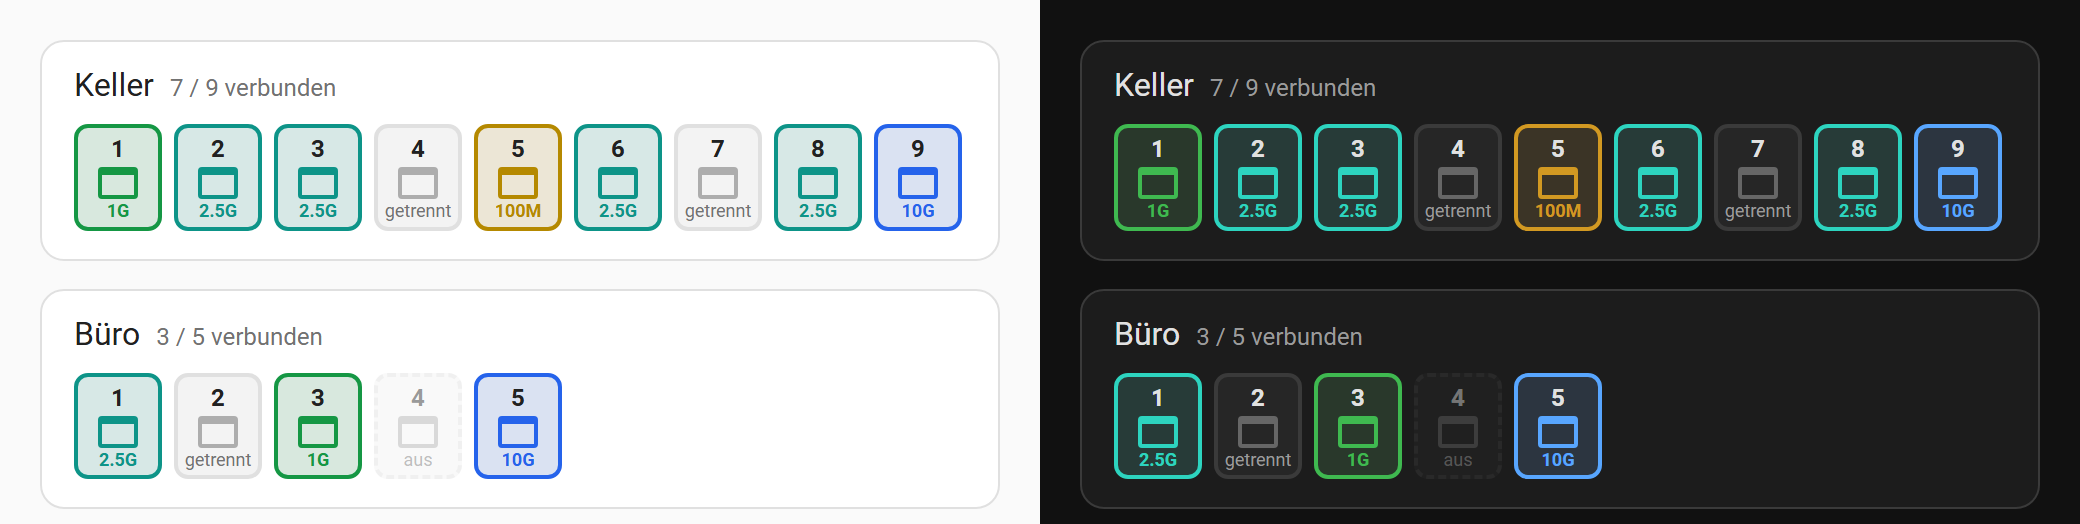
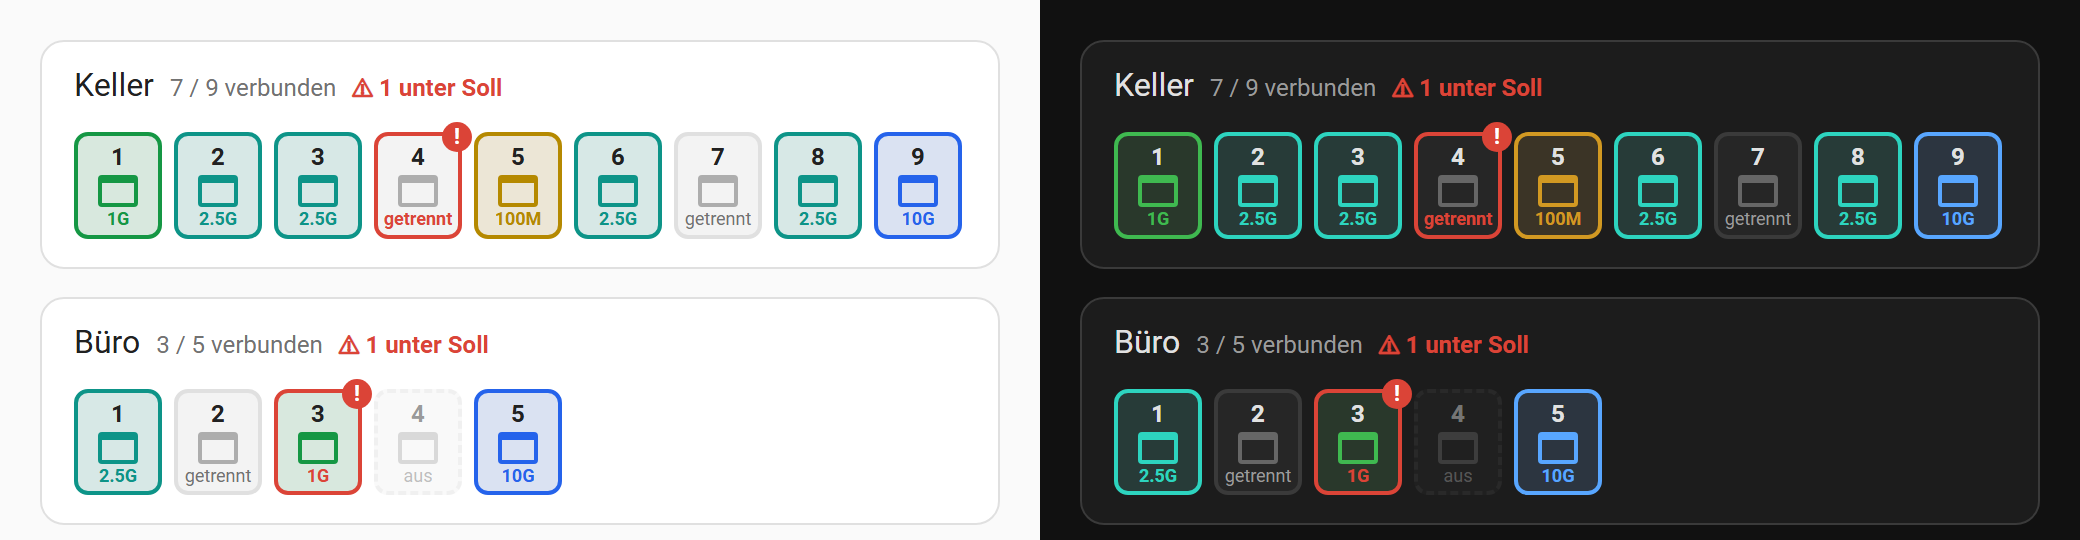
Card: warn when a port runs slower than expected
"expected" names the speed a port should at least run at. A slower or
disconnected port gets a red frame with a badge, the header counts the
ports below target and the tooltip says what was expected.

diff --git a/custom_components/generic_realtek_switch/frontend/generic-realtek-switch-card.js b/custom_components/generic_realtek_switch/frontend/generic-realtek-switch-card.js
@@ -9,6 +9,9 @@
  *   type: custom:generic-realtek-switch-card
  *   device: <device id>     # chosen in the card editor
  *   title: Keller           # optional, default: the device name
+ *   expected:               # optional: ports that should run at least this fast
+ *     2: 2.5G
+ *     8: 2.5G
  */
 const DOMAIN = "generic_realtek_switch";
 const CARD = "generic-realtek-switch-card";
@@ -26,10 +29,50 @@ const SPEED = {
   "5000m": ["5G", "g25"],
   "10g": ["10G", "g10"],
 };
+// Speed in Mbit/s per port state, to compare with the expected speed
+const MBIT = { "10m": 10, "100m": 100, "1000m": 1000, "2500m": 2500, "5000m": 5000, "10g": 10000 };
 const TEXT = {
-  de: { down: "getrennt", off: "aus", na: "–", up: "verbunden", none: "Kein Switch gewählt", device: "Switch", title: "Titel (optional)", learned: "Gelernte Geräte" },
-  en: { down: "down", off: "off", na: "–", up: "connected", none: "No switch selected", device: "Switch", title: "Title (optional)", learned: "Devices learned" },
+  de: {
+    down: "getrennt", off: "aus", na: "–", up: "verbunden", none: "Kein Switch gewählt", device: "Switch",
+    title: "Titel (optional)", learned: "Gelernte Geräte", below: (n) => `${n} unter Soll`,
+    want: (w, is) => `Soll ${w}, ist ${is}`,
+    expected: "Soll-Geschwindigkeit pro Port (optional, z. B. 2:2.5G, 8:2.5G)",
+  },
+  en: {
+    down: "down", off: "off", na: "–", up: "connected", none: "No switch selected", device: "Switch",
+    title: "Title (optional)", learned: "Devices learned", below: (n) => `${n} below target`,
+    want: (w, is) => `expected ${w}, is ${is}`,
+    expected: "Expected speed per port (optional, e.g. 2:2.5G, 8:2.5G)",
+  },
 };
+
+// "2.5G", "2500m", "1g", 2500 → Mbit/s; NaN if not a speed
+function toMbit(v) {
+  const m = String(v ?? "").trim().toLowerCase().match(/^(\d+(?:\.\d+)?)\s*([mg])?(?:bit)?$/);
+  if (!m) return NaN;
+  return Math.round(Number(m[1]) * (m[2] === "g" ? 1000 : 1));
+}
+
+function speedLabel(mbit) {
+  return mbit >= 1000 ? `${mbit / 1000}G` : `${mbit}M`;
+}
+
+// {2: "2.5G"} or "2:2.5G, 8:2.5G" → {2: 2500, 8: 2500}
+function parseExpected(x) {
+  const out = {};
+  const pairs = typeof x === "string"
+    ? x.split(/[,;\s]+/).filter(Boolean).map((p) => p.split(/[:=]/))
+    : Object.entries(x || {});
+  for (const [port, speed] of pairs) {
+    const n = parseInt(port, 10), mbit = toMbit(speed);
+    if (n > 0 && mbit > 0) out[n] = mbit;
+  }
+  return out;
+}
+
+function expectedText(x) {
+  return Object.entries(parseExpected(x)).map(([p, m]) => `${p}:${speedLabel(m)}`).join(", ");
+}
 
 function text(hass) {
   const lang = ((hass && (hass.locale?.language || hass.language)) || "en").slice(0, 2);
@@ -97,15 +140,16 @@ class GenericRealtekSwitchCard extends HTMLElement {
     const dev = hass.devices?.[this._config.device];
     const title = this._config.title || dev?.name_by_user || dev?.name || "";
     const dark = !!hass.themes?.darkMode;
+    const expected = parseExpected(this._config.expected);
 
     // Only redraw when something visible changed
-    const sig = JSON.stringify([title, dark, t.up, ports.map((p) => [p.id, p.st?.state, p.st?.attributes?.port_name, p.st?.attributes?.learned_macs])]);
+    const sig = JSON.stringify([title, dark, t.up, expected, ports.map((p) => [p.id, p.st?.state, p.st?.attributes?.port_name, p.st?.attributes?.learned_macs])]);
     if (sig === this._sig) return;
     this._sig = sig;
 
     if (!this.shadowRoot) this.attachShadow({ mode: "open" });
     const col = COLORS[dark ? "dark" : "light"];
-    let up = 0;
+    let up = 0, below = 0;
     const tiles = ports.map((p) => {
       const state = p.st?.state;
       let cls = "port", label, color = "";
@@ -123,12 +167,20 @@ class GenericRealtekSwitchCard extends HTMLElement {
         label = t.na;
         cls += " dis";
       }
+      // Slower than expected, or not connected at all
+      const want = expected[p.num];
+      let warn = "";
+      if (want && state !== "disabled" && !((MBIT[state] || 0) >= want)) {
+        below++;
+        cls += " warn";
+        warn = t.want(speedLabel(want), label);
+      }
       const a = p.st?.attributes || {};
-      const tip = [`Port ${p.num}`, a.port_name, a.sfp_module, a.learned_macs != null ? `${t.learned}: ${a.learned_macs}` : ""]
+      const tip = [`Port ${p.num}`, a.port_name, a.sfp_module, a.learned_macs != null ? `${t.learned}: ${a.learned_macs}` : "", warn]
         .filter(Boolean)
         .join(" · ");
       return `<div class="${cls}" style="${color ? `--pc:${color}` : ""}" data-id="${esc(p.id)}" title="${esc(tip)}" role="button" tabindex="0">
-        <span class="pn">${p.num}</span><span class="jack"></span><span class="ps">${esc(label)}</span></div>`;
+        ${warn ? `<span class="wb">!</span>` : ""}<span class="pn">${p.num}</span><span class="jack"></span><span class="ps">${esc(label)}</span></div>`;
     });
 
     this.shadowRoot.innerHTML = `
@@ -137,11 +189,11 @@ class GenericRealtekSwitchCard extends HTMLElement {
         .head { display: flex; align-items: baseline; gap: 8px; margin-bottom: 10px; }
         .title { font-size: 16px; font-weight: 500; color: var(--primary-text-color); }
         .count { font-size: 12px; color: var(--secondary-text-color); }
-        .strip { display: flex; flex-wrap: wrap; gap: 6px; }
+        .strip { display: flex; flex-wrap: wrap; gap: 6px; padding-top: 4px; }
         .port {
           width: 44px; border: 2px solid var(--divider-color); border-radius: 7px; padding: 3px 0 2px;
           text-align: center; cursor: pointer; background: var(--secondary-background-color);
-          color: var(--primary-text-color); box-sizing: border-box; outline: none;
+          color: var(--primary-text-color); box-sizing: border-box; outline: none; position: relative;
         }
         .port:focus-visible { box-shadow: 0 0 0 2px var(--primary-color); }
         .pn { font-weight: 650; font-size: 12px; display: block; }
@@ -154,10 +206,17 @@ class GenericRealtekSwitchCard extends HTMLElement {
         .port.up .jack { border-color: var(--pc); opacity: 1; }
         .port.up .ps { color: var(--pc); font-weight: 600; }
         .port.dis { opacity: .45; border-style: dashed; }
+        .port.warn { border-color: var(--error-color, #db4437); opacity: 1; border-style: solid; }
+        .port.warn .ps { color: var(--error-color, #db4437); font-weight: 600; }
+        .wb {
+          position: absolute; top: -7px; right: -7px; width: 15px; height: 15px; border-radius: 50%;
+          background: var(--error-color, #db4437); color: #fff; font-size: 11px; font-weight: 700; line-height: 15px;
+        }
+        .bad { font-size: 12px; color: var(--error-color, #db4437); font-weight: 600; }
         .none { color: var(--secondary-text-color); font-size: 14px; }
       </style>
       <ha-card>
-        ${title || ports.length ? `<div class="head"><span class="title">${esc(title)}</span>${ports.length ? `<span class="count">${up} / ${ports.length} ${esc(t.up)}</span>` : ""}</div>` : ""}
+        ${title || ports.length ? `<div class="head"><span class="title">${esc(title)}</span>${ports.length ? `<span class="count">${up} / ${ports.length} ${esc(t.up)}</span>` : ""}${below ? `<span class="bad">⚠ ${esc(t.below(below))}</span>` : ""}</div>` : ""}
         ${ports.length ? `<div class="strip">${tiles.join("")}</div>` : `<div class="none">${esc(t.none)}</div>`}
       </ha-card>`;
 
@@ -191,8 +250,16 @@ class GenericRealtekSwitchCardEditor extends HTMLElement {
     if (!this._form) {
       this._form = document.createElement("ha-form");
       this._form.addEventListener("value-changed", (ev) => {
-        const config = { ...this._config, ...ev.detail.value };
+        const { expected_text, ...value } = ev.detail.value;
+        if (expected_text !== undefined) this._typed = expected_text;
+        const config = { ...this._config, ...value };
         if (!config.title) delete config.title;
+        if (expected_text !== undefined) {
+          const exp = parseExpected(expected_text);
+          const keys = Object.keys(exp);
+          if (keys.length) config.expected = Object.fromEntries(keys.map((k) => [k, speedLabel(exp[k])]));
+          else delete config.expected;
+        }
         this._config = config;
         this.dispatchEvent(new CustomEvent("config-changed", { bubbles: true, composed: true, detail: { config } }));
       });
@@ -203,9 +270,14 @@ class GenericRealtekSwitchCardEditor extends HTMLElement {
     this._form.schema = [
       { name: "device", required: true, selector: { device: { integration: DOMAIN } } },
       { name: "title", selector: { text: {} } },
+      { name: "expected_text", selector: { text: {} } },
     ];
-    this._form.computeLabel = (s) => (s.name === "device" ? t.device : t.title);
-    this._form.data = this._config;
+    this._form.computeLabel = (s) => ({ device: t.device, title: t.title, expected_text: t.expected })[s.name];
+    // Keep what is being typed; the stored config only holds the parsed ports
+    if (this._typed === undefined || expectedText(this._typed) !== expectedText(this._config.expected)) {
+      this._typed = expectedText(this._config.expected);
+    }
+    this._form.data = { ...this._config, expected_text: this._typed };
   }
 }
 

diff --git a/README.de.md b/README.de.md
@@ -143,7 +143,12 @@ Die Karte wird automatisch geladen, unter *Ressourcen* ist nichts einzutragen. I
 type: custom:generic-realtek-switch-card
 device: <Geräte-ID>   # im Karten-Editor auswählen
 title: Keller         # optional, sonst der Gerätename
+expected:             # optional: Ports, die mindestens so schnell laufen sollen
+  2: 2.5G
+  8: 2.5G
 ```
+
+**Soll-Geschwindigkeit:** Für Ports unter `expected` (im Karten-Editor: „Soll-Geschwindigkeit pro Port“, z. B. `2:2.5G, 8:2.5G`) warnt die Karte, sobald der Port langsamer läuft oder getrennt ist: roter Rahmen mit `!`-Abzeichen, „⚠ 1 unter Soll“ in der Kopfzeile und „Soll 2.5G, ist 1G“ im Tooltip. Bewusst abgeschaltete Ports warnen nicht.
 
 Nach einem Update der Integration lädt der Browser die neue Karte von selbst; falls nicht, die Seite einmal mit Strg+F5 neu laden.
 

diff --git a/README.md b/README.md
@@ -143,7 +143,12 @@ The card is loaded automatically, nothing needs to be added under *Resources*. O
 type: custom:generic-realtek-switch-card
 device: <device id>   # picked in the card editor
 title: Basement       # optional, default: the device name
+expected:             # optional: ports that should run at least this fast
+  2: 2.5G
+  8: 2.5G
 ```
+
+**Expected speed:** for ports listed under `expected` (in the card editor: "Expected speed per port", e.g. `2:2.5G, 8:2.5G`) the card warns as soon as the port runs slower or is disconnected: red frame with a `!` badge, "⚠ 1 below target" in the header and "expected 2.5G, is 1G" in the tooltip. Disabled ports don't warn.
 
 After an update of the integration the browser loads the new card by itself; if not, reload the page once with Ctrl+F5.
 
